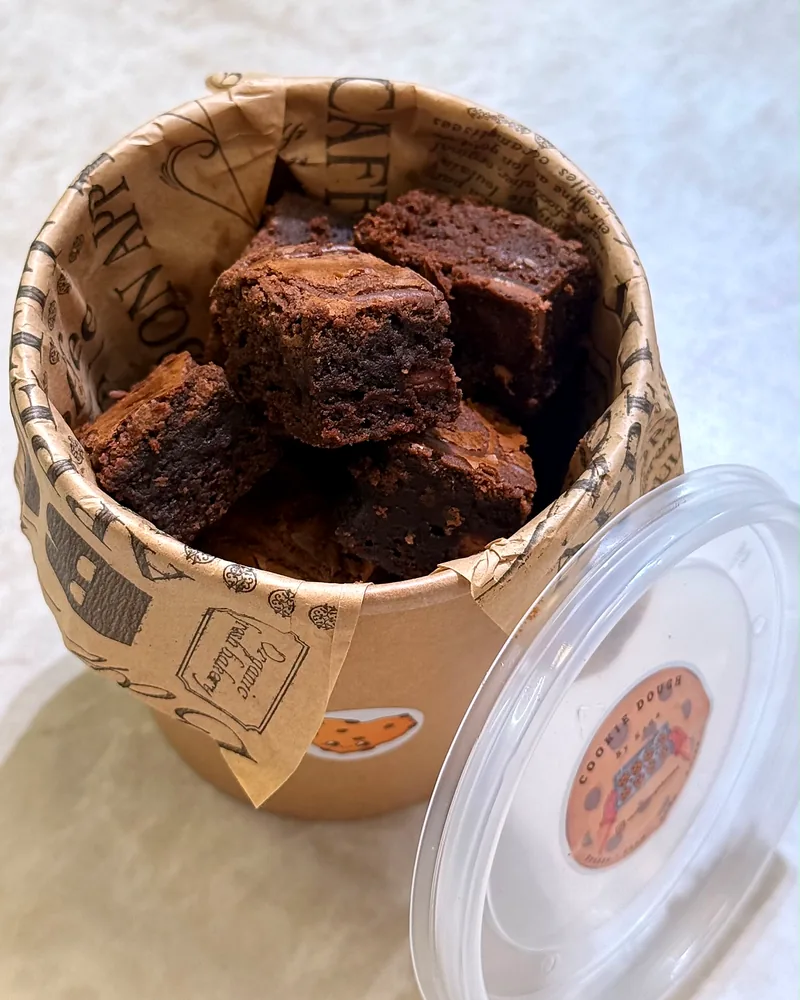
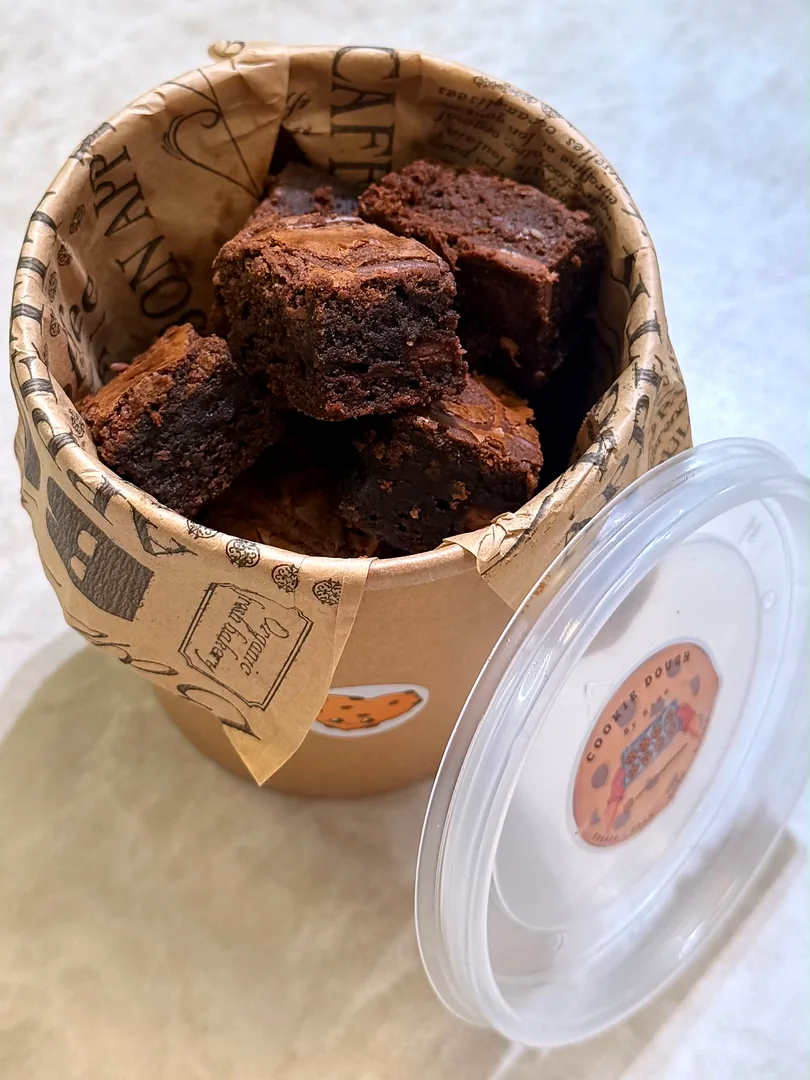
Show the whole Brownie Bites photo
Crop to 3:4 so the full cup, brownies and lid are visible, and keep the
same shape on phones instead of a wide strip.

Claude-Session: https://claude.ai/code/session_01FkBvwG9b764DemyajNstcL

diff --git a/css/style.css b/css/style.css
@@ -136,7 +136,7 @@ a{ color:inherit; }
   display:grid; grid-template-columns:380px 1fr; background:var(--card); border:1px solid var(--line);
   border-radius:22px; overflow:hidden; box-shadow:var(--shadow); margin-bottom:48px;
 }
-.special-photo{ aspect-ratio:4/5; overflow:hidden; }
+.special-photo{ aspect-ratio:3/4; overflow:hidden; }
 .special-photo img{ width:100%; height:100%; object-fit:cover; transition:transform .5s ease; }
 .special-card:hover .special-photo img{ transform:scale(1.04); }
 .special-body{ padding:36px 40px; display:flex; flex-direction:column; justify-content:center; align-items:flex-start; gap:14px; }
@@ -194,8 +194,6 @@ footer .flinks a{ color:var(--cocoa); text-decoration:none; font-weight:600; bor
   .box-grid{ grid-template-columns:repeat(2,1fr); }
   .inside-grid{ grid-template-columns:repeat(2,1fr); }
   .special-card{ grid-template-columns:1fr; }
-  .special-photo{ aspect-ratio:4/3; }
-  .special-photo img{ object-position:center 40%; }
   .special-body{ padding:26px 22px 28px; }
   .menu-banner{ aspect-ratio:16/7; }
 }

diff --git a/ar/menu.html b/ar/menu.html
@@ -81,7 +81,7 @@
 
     <div class="menu-sub-label">مميّز · لفترة محدودة</div>
     <div class="special-card">
-      <div class="special-photo"><img loading="lazy" src="../assets/img/cookies/brownie-bites.webp" alt="قطع براونيز في كوب هدية مع ملصق Cookie Dough by Rana" width="800" height="1000"></div>
+      <div class="special-photo"><img loading="lazy" src="../assets/img/cookies/brownie-bites.webp" alt="قطع براونيز في كوب هدية مع ملصق Cookie Dough by Rana" width="810" height="1080"></div>
       <div class="special-body">
         <span class="special-badge">إصدار محدود</span>
         <h3>قطع البراونيز</h3>

diff --git a/menu.html b/menu.html
@@ -80,7 +80,7 @@
 
     <div class="menu-sub-label">Special · Limited time</div>
     <div class="special-card">
-      <div class="special-photo"><img loading="lazy" src="assets/img/cookies/brownie-bites.webp" alt="Brownie bites in a gift cup with a Cookie Dough by Rana sticker" width="800" height="1000"></div>
+      <div class="special-photo"><img loading="lazy" src="assets/img/cookies/brownie-bites.webp" alt="Brownie bites in a gift cup with a Cookie Dough by Rana sticker" width="810" height="1080"></div>
       <div class="special-body">
         <span class="special-badge">Limited edition</span>
         <h3>Brownie Bites</h3>
